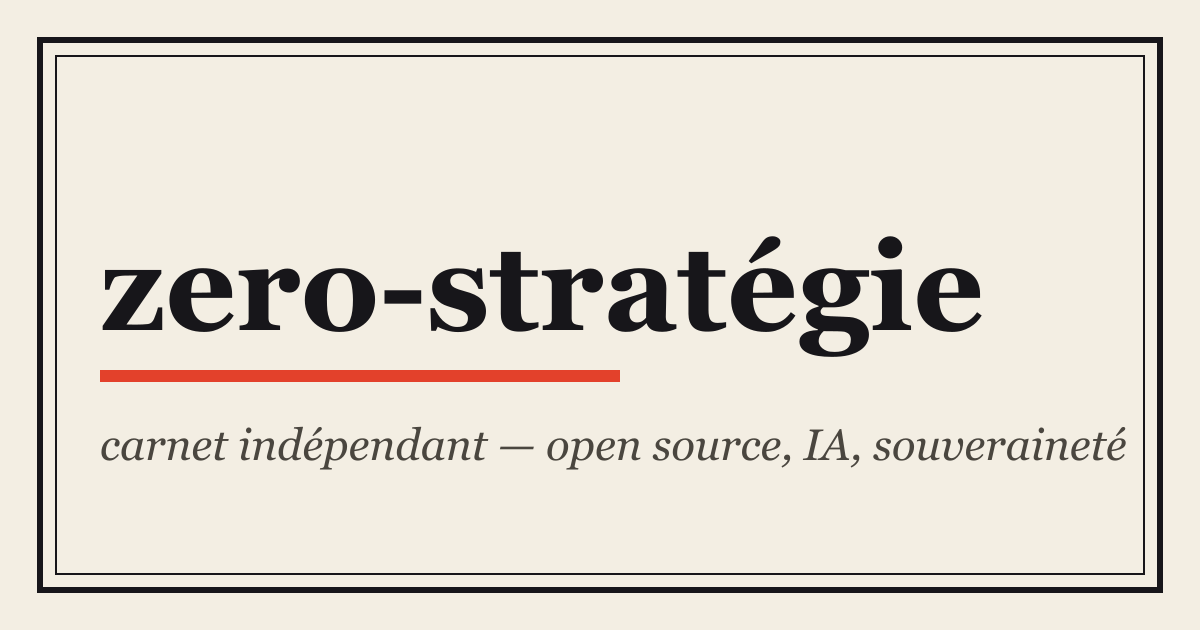
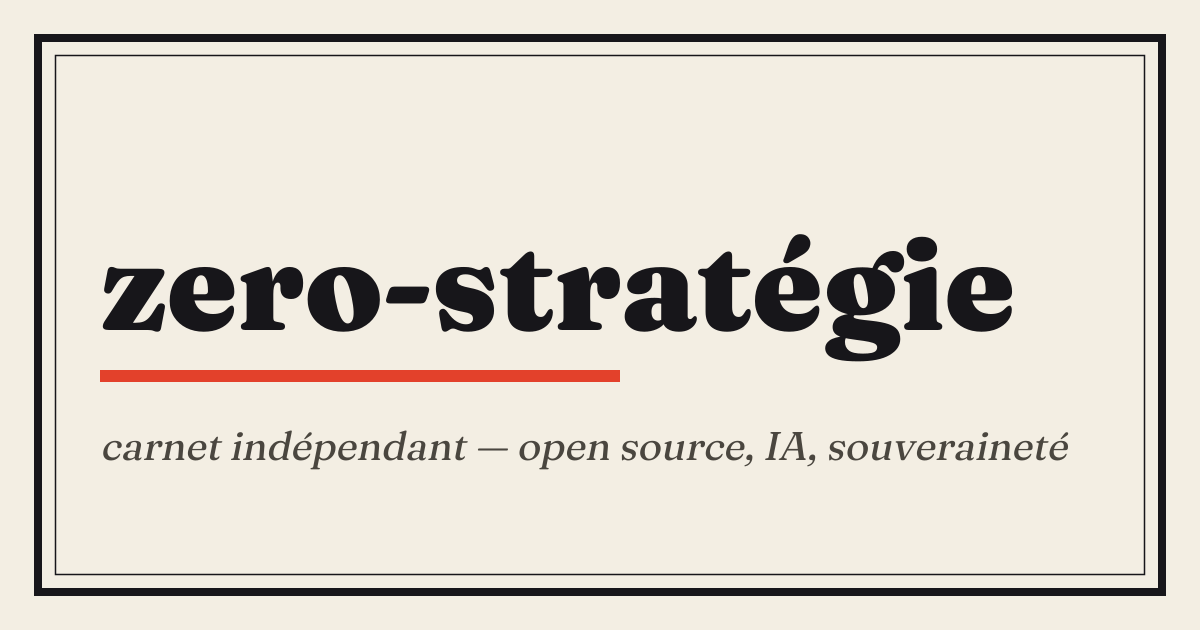
feat(og): régénérer og-default.png avec le titre en Fraunces et le sous-titre en jeton --ink-soft

Changed region(s): [[0.0308, 0.0302, 0.9867, 0.9651], [0.0925, 0.3619, 0.8633, 0.573]]

diff --git a/scripts/og-default-svg.py b/scripts/og-default-svg.py
@@ -1,0 +1,79 @@
+"""Génère scripts/og-default.svg : image de partage avec le texte vectorisé en Fraunces.
+
+Pourquoi des tracés et pas du <text> : sharp/librsvg sous macOS ignore @font-face
+et les fontes hors système ; le texte converti en courbes rend à l'identique partout.
+Hors build, hors dépendances du projet (voir scripts/README.md) :
+
+    python3 -m venv /tmp/fonttools && /tmp/fonttools/bin/pip install fonttools brotli
+    /tmp/fonttools/bin/python scripts/og-default-svg.py
+
+Limite : pas de crénage GPOS (avances horizontales seules), l'italique est un skew,
+comme celui que synthétise le navigateur.
+"""
+import re
+from pathlib import Path
+
+from fontTools.pens.svgPathPen import SVGPathPen
+from fontTools.pens.transformPen import TransformPen
+from fontTools.ttLib import TTFont
+from fontTools.varLib.instancer import instantiateVariableFont
+
+ROOT = Path(__file__).resolve().parent.parent
+FONT = ROOT / "src/assets/fonts/fraunces.woff2"
+OUTPUT = ROOT / "scripts/og-default.svg"
+
+WIDTH, HEIGHT = 1200, 630
+MARGIN_X = 100
+TITLE_SIZE, TITLE_BASELINE = 128, 330
+RULE = {"x": MARGIN_X, "y": 370, "width": 520, "height": 12}
+SUBTITLE_SIZE, SUBTITLE_BASELINE = 40, 460
+ITALIC_SKEW = 0.2
+
+
+def token(name: str) -> str:
+    """Valeur claire d'un jeton (premier bloc :root de tokens.css)."""
+    css = (ROOT / "src/styles/tokens.css").read_text(encoding="utf8")
+    return re.search(rf"{re.escape(name)}:\s*(#[0-9a-fA-F]{{6}})", css).group(1)
+
+
+def constant(name: str) -> str:
+    source = (ROOT / "src/consts.ts").read_text(encoding="utf8")
+    return re.search(rf"{name}\s*=\s*\n?\s*['\"](.+?)['\"];", source).group(1)
+
+
+def outline(text: str, axes: dict, size: float, x: float, baseline: float, skew: float = 0) -> str:
+    font = instantiateVariableFont(TTFont(FONT), axes)
+    glyphs, cmap, hmtx = font.getGlyphSet(), font.getBestCmap(), font["hmtx"]
+    scale = size / font["head"].unitsPerEm
+    pen = SVGPathPen(glyphs)
+    cursor = x
+    for char in text:
+        name = cmap[ord(char)]
+        # Repère SVG : y vers le bas, donc échelle verticale négative ; skew > 0 penche vers la droite.
+        transform = (scale, 0, skew * scale, -scale, cursor, baseline)
+        glyphs[name].draw(TransformPen(pen, transform))
+        cursor += hmtx[name][0] * scale
+    return pen.getCommands()
+
+
+def main() -> None:
+    paper, ink, red, soft = (token(n) for n in ("--paper", "--ink", "--ink-red", "--ink-soft"))
+    title = outline(constant("SITE_TITLE"), {"wght": 900, "opsz": 30}, TITLE_SIZE, MARGIN_X, TITLE_BASELINE)
+    subtitle = outline(
+        constant("SITE_TAGLINE"), {"wght": 400, "opsz": 14}, SUBTITLE_SIZE, MARGIN_X, SUBTITLE_BASELINE, ITALIC_SKEW
+    )
+    OUTPUT.write_text(
+        f'''<svg xmlns="http://www.w3.org/2000/svg" width="{WIDTH}" height="{HEIGHT}" viewBox="0 0 {WIDTH} {HEIGHT}">
+<rect width="{WIDTH}" height="{HEIGHT}" fill="{paper}"/>
+<rect x="38" y="38" width="1124" height="554" fill="none" stroke="{ink}" stroke-width="8"/>
+<rect x="55.5" y="55.5" width="1089" height="519" fill="none" stroke="{ink}" stroke-width="1.5"/>
+<path fill="{ink}" d="{title}"/>
+<rect x="{RULE['x']}" y="{RULE['y']}" width="{RULE['width']}" height="{RULE['height']}" fill="{red}"/>
+<path fill="{soft}" d="{subtitle}"/>
+</svg>
+''',
+        encoding="utf8",
+    )
+
+
+main()

diff --git a/scripts/README.md b/scripts/README.md
@@ -1,0 +1,20 @@
+# scripts/
+
+Hors build : rien ici ne tourne pendant `pnpm build`.
+
+- `check-weight.mjs` : `pnpm check:weight [dist]` vérifie les budgets sur `dist/client` (CSS ≤ 15 KB par page, accueil ≤ 100 KB hors images, une seule fonte ≤ 50 KB, 0 script). Code de sortie 1 en cas de dépassement.
+- `lib/` : helpers partagés avec les tests (lecture de `dist/client`, jetons, contraste, poids).
+
+## Régénérer l'image de partage (`public/og-default.png`)
+
+Le titre et le sous-titre sont composés en Fraunces (`src/assets/fonts/fraunces.woff2`), couleurs lues dans `src/styles/tokens.css` (`--ink`, `--ink-soft`, `--ink-red`, `--paper`), textes lus dans `src/consts.ts`. Le texte est converti en tracés SVG, car sharp ne charge pas de fonte hors système sous macOS.
+
+```sh
+# 1. SVG vectorisé (fonttools installé hors du projet, rien dans package.json)
+python3 -m venv /tmp/fonttools && /tmp/fonttools/bin/pip install fonttools brotli
+/tmp/fonttools/bin/python scripts/og-default-svg.py     # écrit scripts/og-default.svg
+# 2. Rastérisation 1200×630 avec sharp (déjà dépendance du projet)
+node scripts/generate-og-image.mjs                      # écrit public/og-default.png
+```
+
+Commiter ensemble `scripts/og-default.svg` et `public/og-default.png`.
